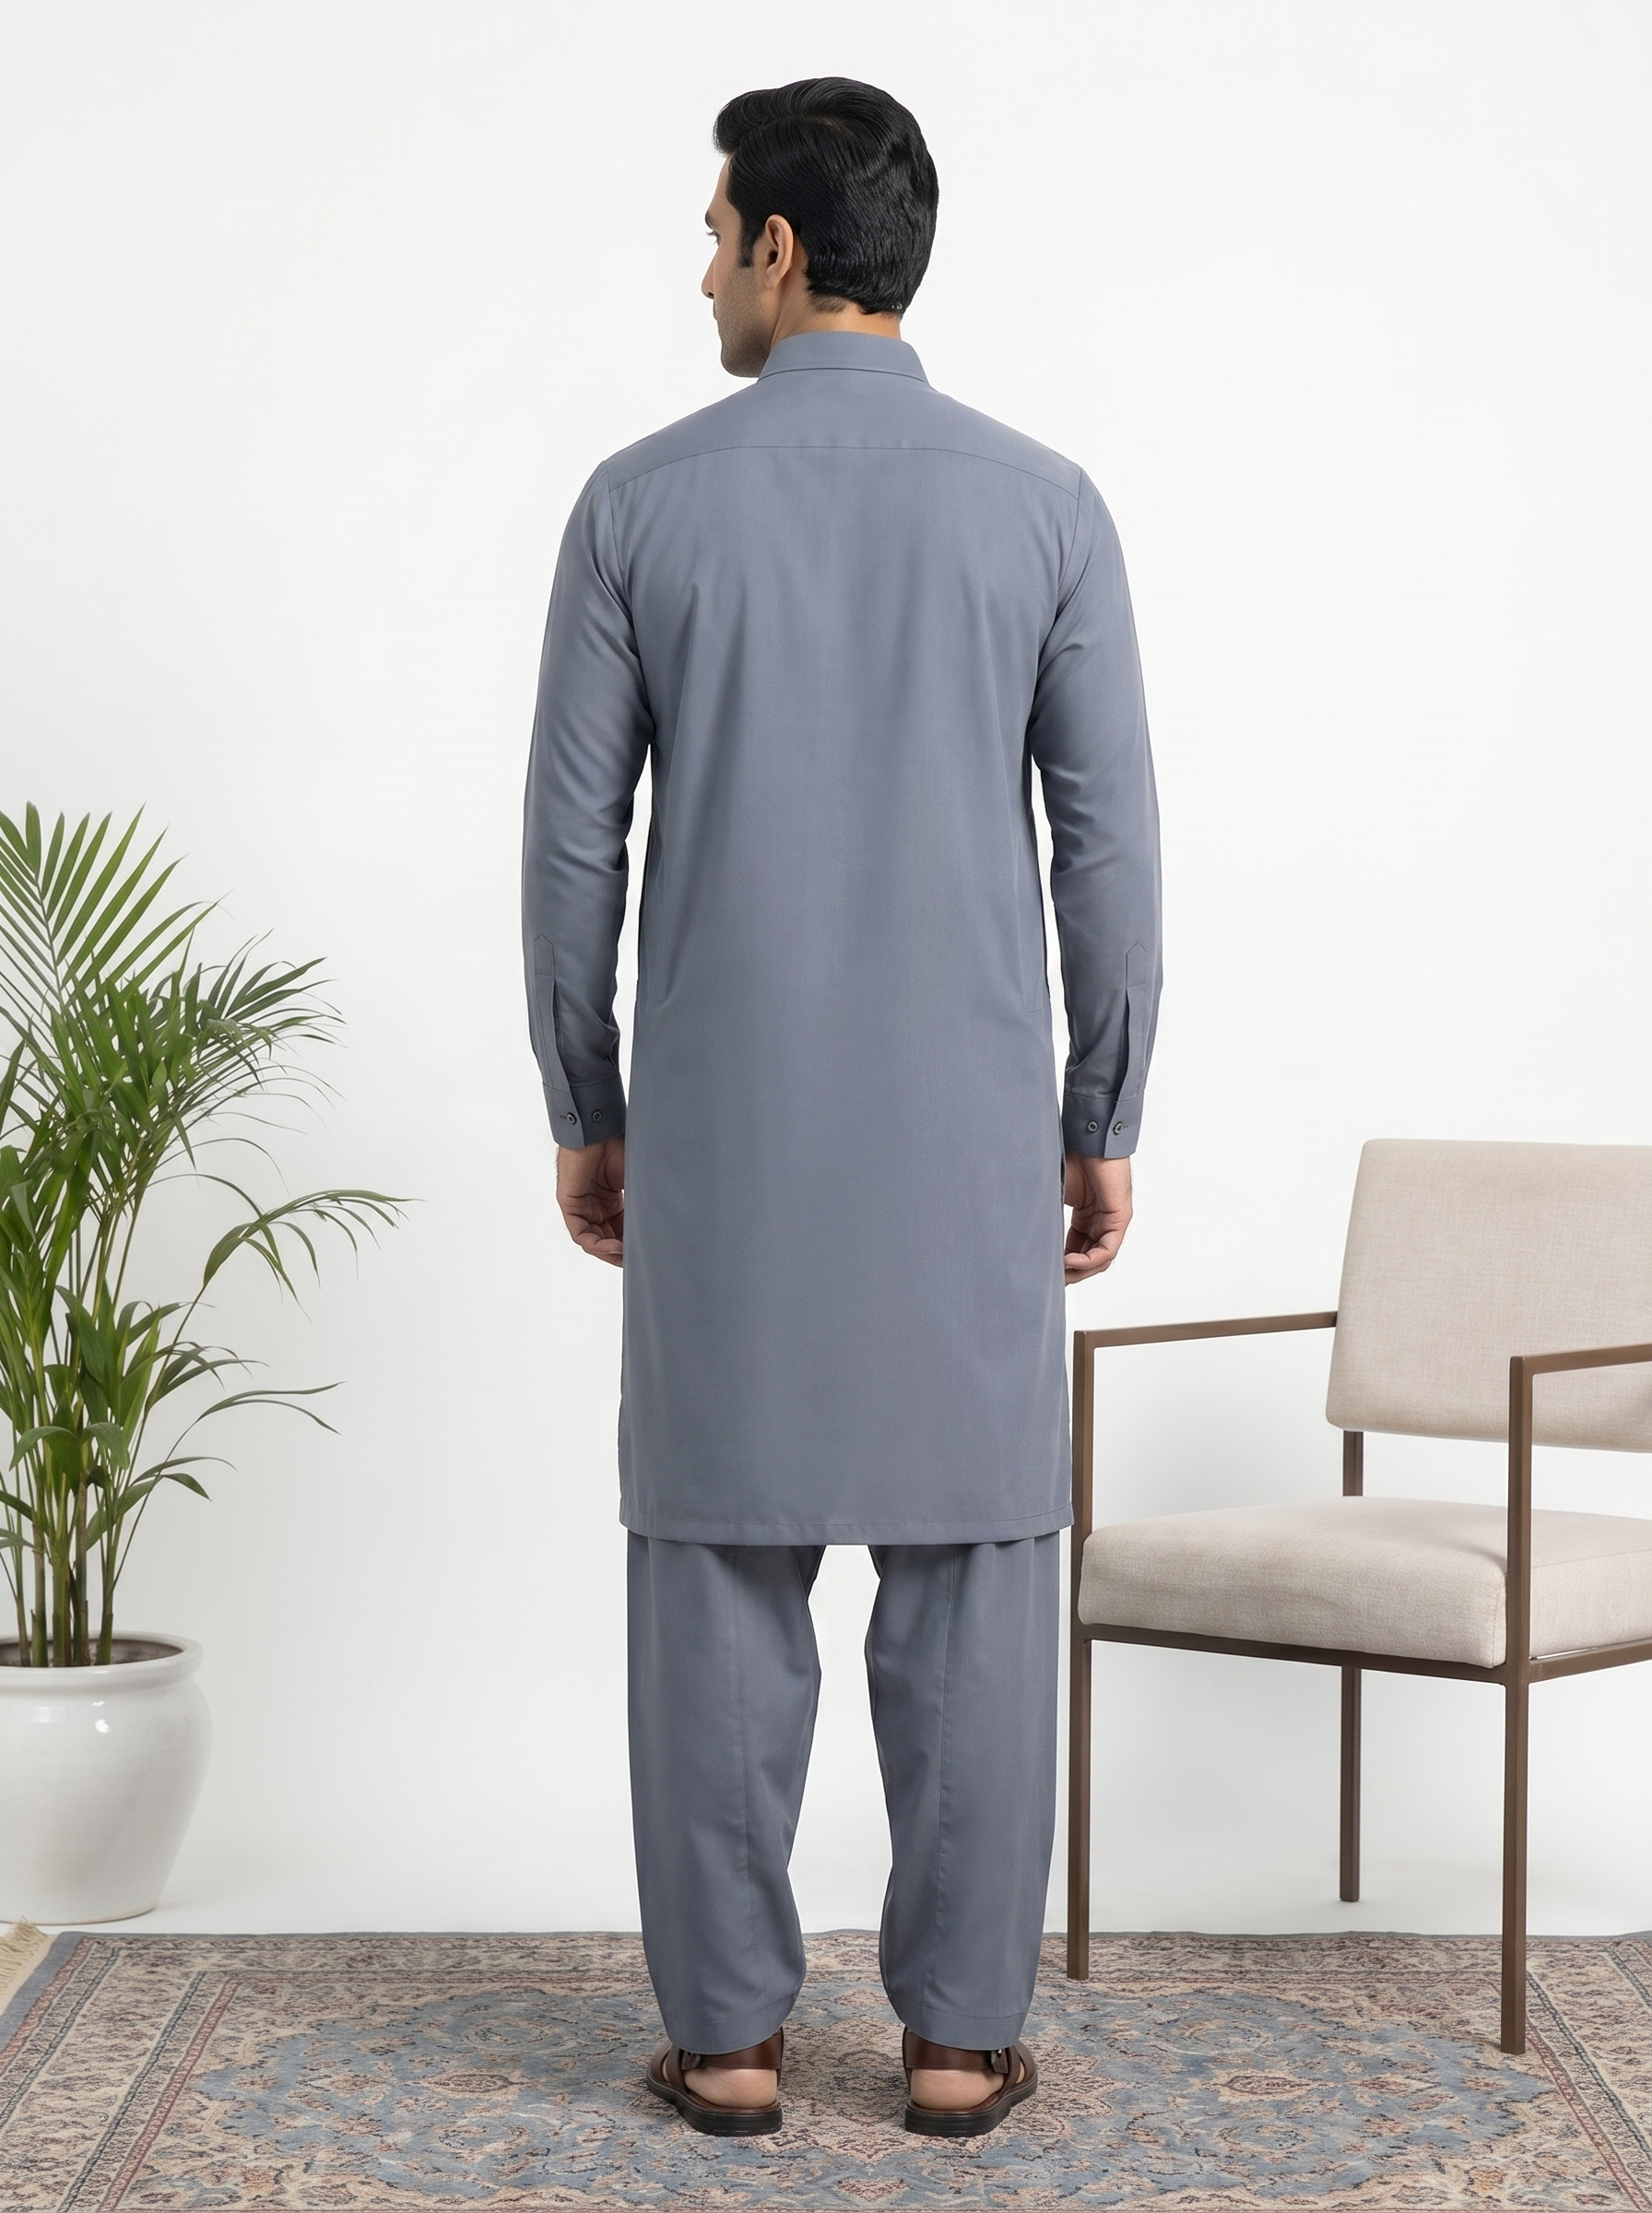
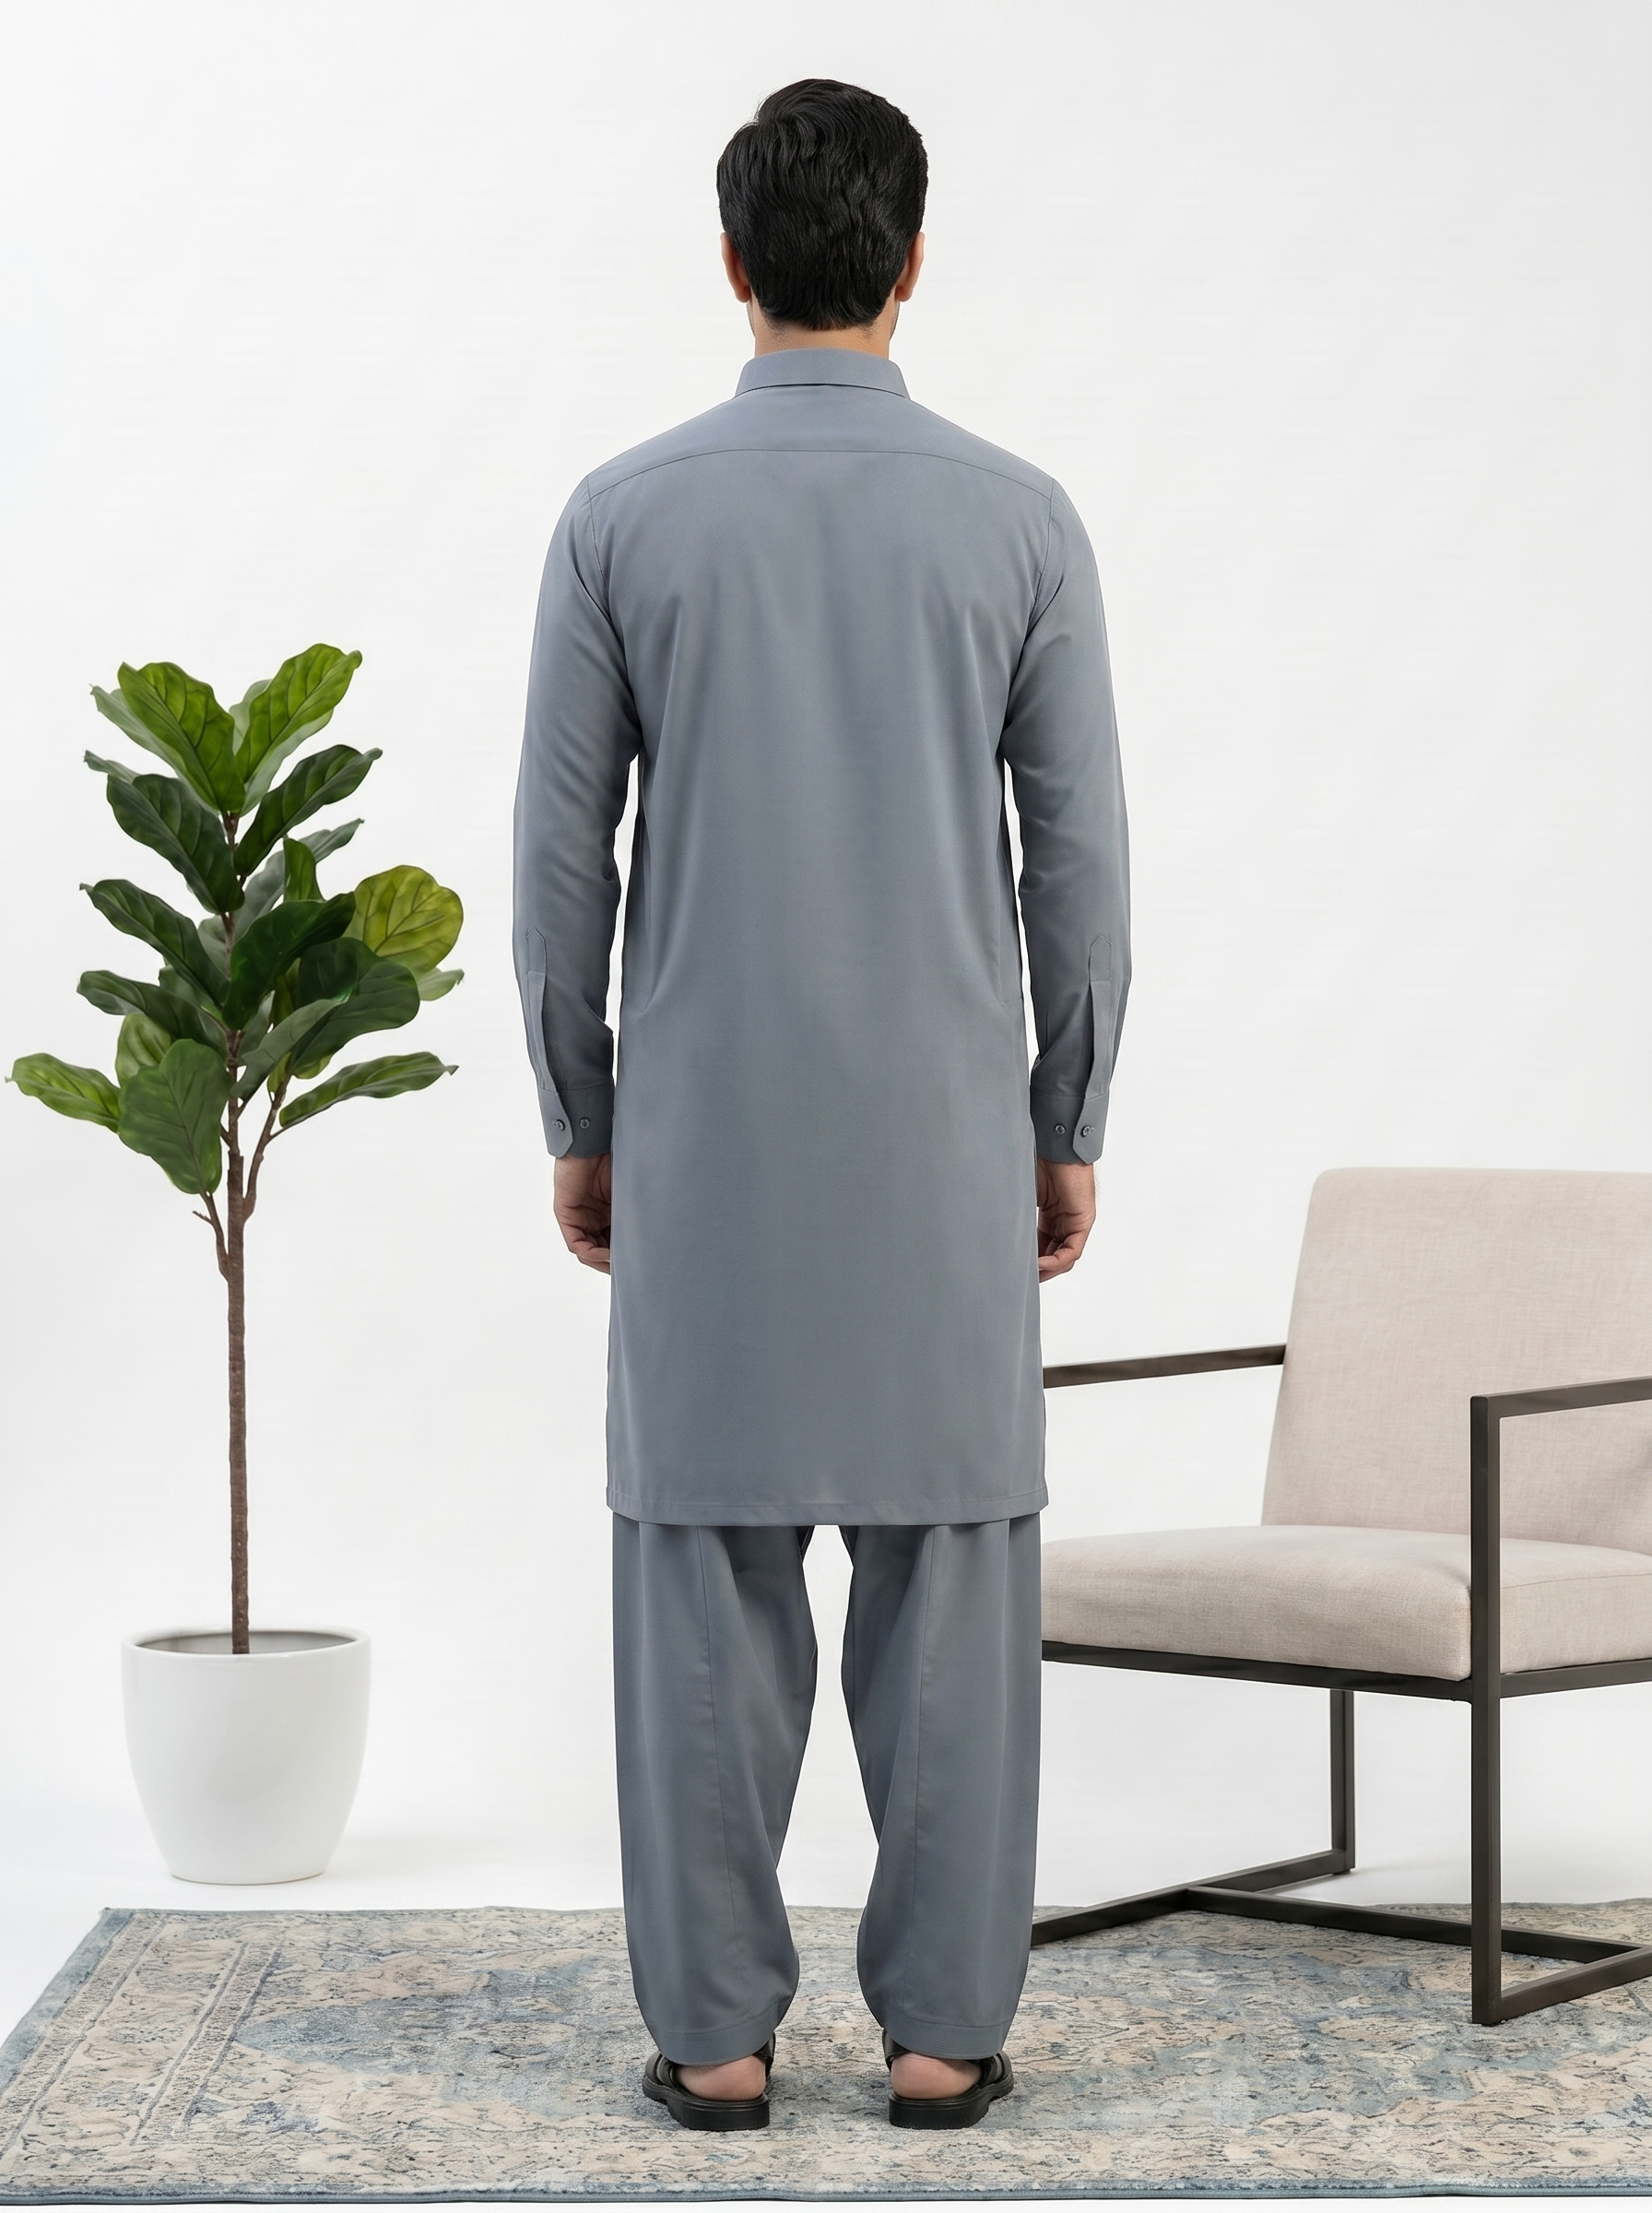
feat(customer): replace first design images with XStitch and fix TripleEdgeStitch01 extension

diff --git a/frontend/src/pages/customer/Booking.jsx b/frontend/src/pages/customer/Booking.jsx
@@ -35,9 +35,9 @@ import imgFabricWashWear from '../../assets/fabrics/fabric_wash_wear.png';
 import imgFabricEgyptian from '../../assets/fabrics/fabric_egyptian.png';
 import imgFabricSilk from '../../assets/fabrics/fabric_silk.png';
 
-import shalwarKameezDesign from '../../assets/shalwarKameezDesign.jpeg';
-import shalwarKameezDesign01 from '../../assets/shalwarKameezDesign01.jpeg';
-import shalwarKameezDesign02 from '../../assets/shalwarKameezDesign02.jpeg';
+import xStitchMain from '../../assets/XStitchMain.jpeg';
+import xStitch01 from '../../assets/XStitch01.jpeg';
+import xStitch02 from '../../assets/XStitch02.jpeg';
 
 import eliteAuraMain from '../../assets/EliteAuraMain.jpeg';
 import eliteAura01 from '../../assets/EliteAura01.jpeg';
@@ -45,7 +45,7 @@ import eliteAura02 from '../../assets/EliteAura02.jpeg';
 import eliteAura03 from '../../assets/EliteAura03.jpeg';
 
 import tripleEdgeStitchMain from '../../assets/TripleEdgeStitchMain.jpeg';
-import tripleEdgeStitch01 from '../../assets/TripleEdgeStitch01.jpeg';
+import tripleEdgeStitch01 from '../../assets/TripleEdgeStitch01.jpg';
 import tripleEdgeStitch02 from '../../assets/TripleEdgeStitch02.jpeg';
 
 const SERVICES_PRICES = {
@@ -106,7 +106,7 @@ const STYLE_CONFIGS = {
   },
   'Kameez Shalwar Design': {
     designs: [
-      { name: "'X-Stitch' Classic", img: shalwarKameezDesign, price: 3500, gallery: [shalwarKameezDesign, shalwarKameezDesign01, shalwarKameezDesign02] },
+      { name: "'X-Stitch' Classic", img: xStitchMain, price: 3500, gallery: [xStitchMain, xStitch01, xStitch02] },
       { name: 'Elite Aura Premium', img: eliteAuraMain, price: 4000, gallery: [eliteAuraMain, eliteAura01, eliteAura02, eliteAura03] },
       { name: 'Triple Edge Stitch', img: tripleEdgeStitchMain, price: 4500, gallery: [tripleEdgeStitchMain, tripleEdgeStitch01, tripleEdgeStitch02] }
     ]